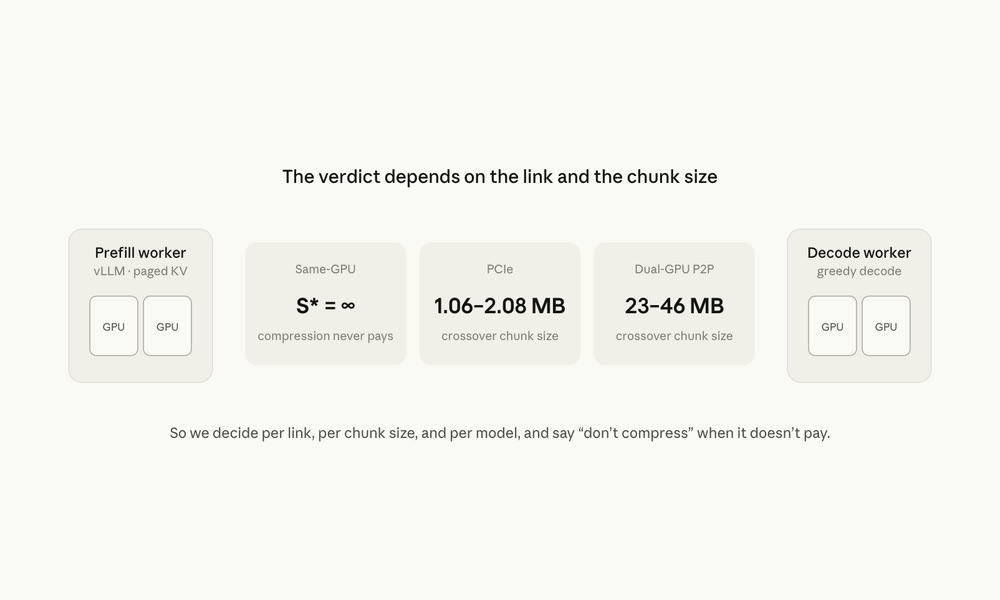
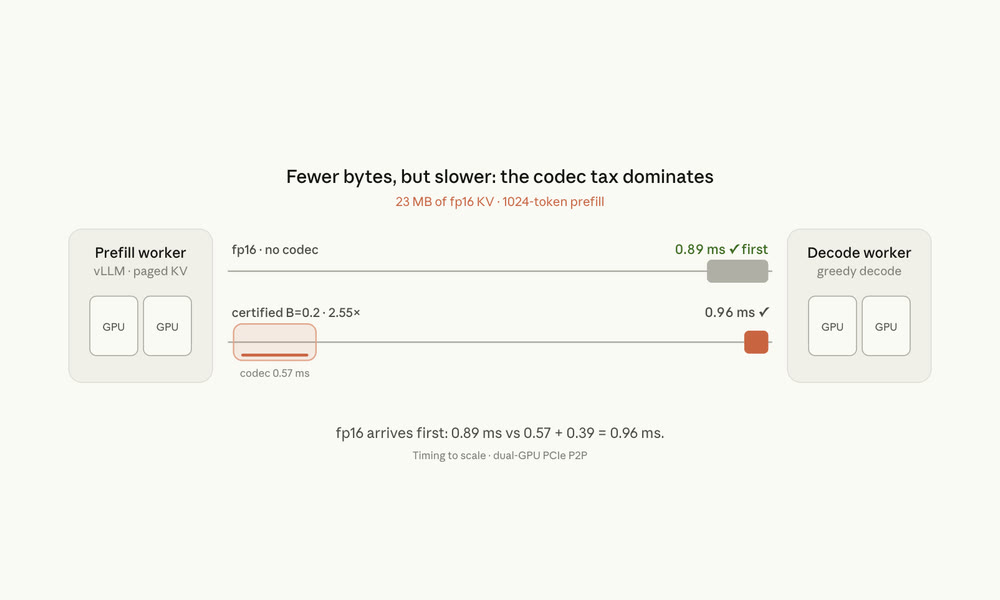
content: KVLedger cover keeps only the first two scenes (KV packed and sent)
The loop now shows the prefill→decode transfer and the 23 MB race, and
stops before the large race and the verdict card (10 s, 85 KB). Alt text
describes what is now shown.

Changed region(s): [[0.217, 0.39, 0.775, 0.63], [0.155, 0.69, 0.837, 0.78], [0.279, 0.27, 0.713, 0.36]]

diff --git a/_pages/about.md b/_pages/about.md
@@ -26,7 +26,7 @@ I am Yuchen Fan (樊宇琛), a Robotics Engineering undergraduate at [Beijing In
 
 # 📝 Publications
 
-<div class='paper-box'><div class='paper-box-image'><div><div class="badge">GPC 2026</div><video src='{{ "/images/kvledger-hero.mp4" | relative_url }}' poster='{{ "/images/kvledger-hero-poster.jpg" | relative_url }}' autoplay muted loop playsinline preload="auto" aria-label="Animation from the project page: KV cache moves from the prefill worker to the decode worker, and compression wins only above a link-dependent crossover"></video></div></div>
+<div class='paper-box'><div class='paper-box-image'><div><div class="badge">GPC 2026</div><video src='{{ "/images/kvledger-hero.mp4" | relative_url }}' poster='{{ "/images/kvledger-hero-poster.jpg" | relative_url }}' autoplay muted loop playsinline preload="auto" aria-label="Animation from the project page: the prefill worker packs and sends KV cache to the decode worker; for a 23 MB chunk, fp16 arrives before the compressed copy because of the codec cost"></video></div></div>
 <div class='paper-box-text' markdown="1">
 
 [When Does KV Cache Compression Pay? A Quality- and Cost-Aware Runtime Framework for Cloud LLM Serving](https://functionhx.github.io/kv-compression-pays/)

diff --git a/_pages/about-zh.md b/_pages/about-zh.md
@@ -23,7 +23,7 @@ author_profile: true
 
 # 📝 论文
 
-<div class='paper-box'><div class='paper-box-image'><div><div class="badge">GPC 2026</div><video src='{{ "/images/kvledger-hero.mp4" | relative_url }}' poster='{{ "/images/kvledger-hero-poster.jpg" | relative_url }}' autoplay muted loop playsinline preload="auto" aria-label="项目主页动画：KV cache 从 prefill worker 传到 decode worker，只有超过与链路相关的分界点，压缩才更快"></video></div></div>
+<div class='paper-box'><div class='paper-box-image'><div><div class="badge">GPC 2026</div><video src='{{ "/images/kvledger-hero.mp4" | relative_url }}' poster='{{ "/images/kvledger-hero-poster.jpg" | relative_url }}' autoplay muted loop playsinline preload="auto" aria-label="项目主页动画：prefill worker 把 KV cache 打包发送给 decode worker；23 MB 的数据块因为编解码开销，fp16 反而比压缩版先到"></video></div></div>
 <div class='paper-box-text' markdown="1">
 
 [When Does KV Cache Compression Pay? A Quality- and Cost-Aware Runtime Framework for Cloud LLM Serving](https://functionhx.github.io/kv-compression-pays/)
